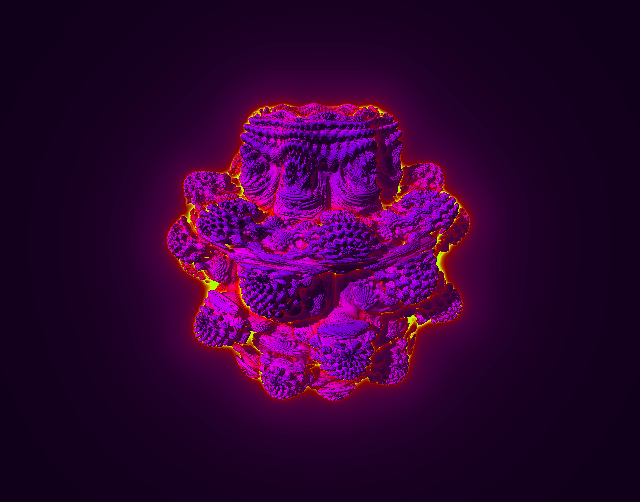
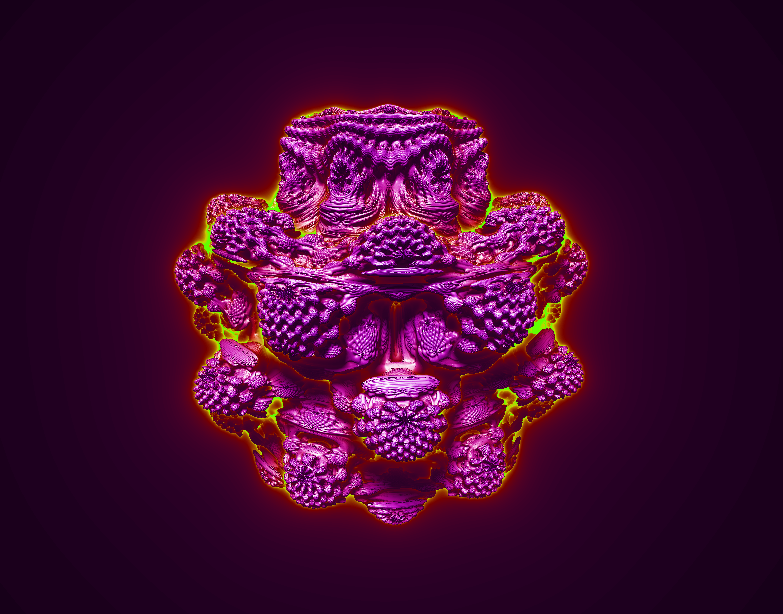
Added smooth shadows and specular lighting

Changed region(s): [[0.1875, 0.1494, 0.7812, 0.8964]]

diff --git a/src/raymarching/DisplayGL.java b/src/raymarching/DisplayGL.java
@@ -68,6 +68,7 @@ public class DisplayGL extends GLJPanel implements GLEventListener,
     private float hueOffset = 0.0f;
     private float powerOffset = 0.0f;
     private float power = 0.0f;
+    private float radius = 1.0f;
     
     public DisplayGL(){
         addGLEventListener(this);
@@ -136,11 +137,15 @@ public class DisplayGL extends GLJPanel implements GLEventListener,
         int unifPower = gl.glGetUniformLocation(shaderProgram, "power");
         gl.glUniform1f(unifPower, power);
         
+        int unifRadius = gl.glGetUniformLocation(shaderProgram, "radius");
+        gl.glUniform1f(unifRadius, radius);
+        
         lightPos.rotateAround(new Vec3f(0.0f, 0.0f, 0.0f), new Vec3f(0.0f, 0.0f, 1.0f), 0.01f);
         hueOffset = (hueOffset + 0.002f) % 1.0f;
         power = 9.0f;
-        //powerOffset =  powerOffset + 0.005f;
+        powerOffset =  powerOffset + 0.05f;
         //power = 4.0f * (float)Math.sin(powerOffset) + 8.0f;
+        radius = 0.25f * (float)Math.sin(powerOffset) + 1.0f;
         
         gl.glBindBuffer(GL4.GL_ARRAY_BUFFER, vbo[0]);
         gl.glVertexAttribPointer(0, 3, GL4.GL_FLOAT, false, 0, 0);
